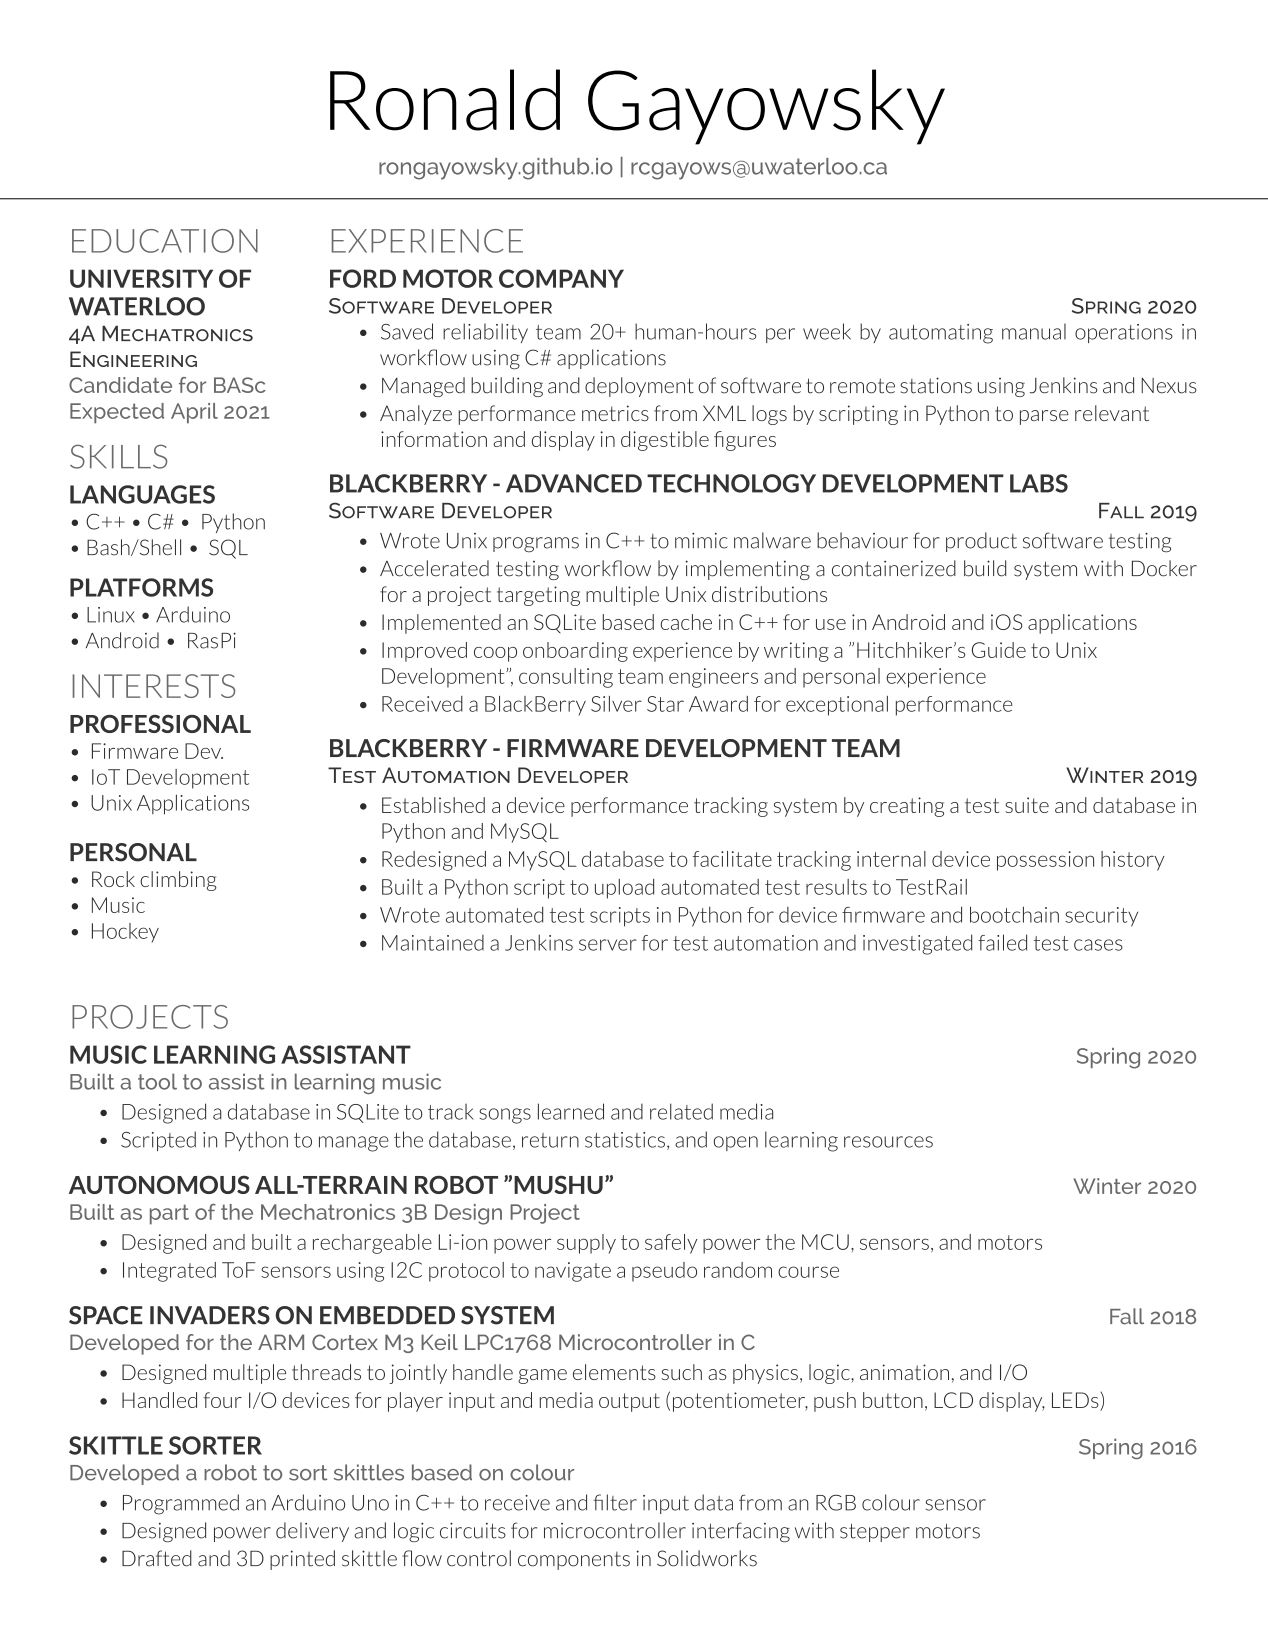
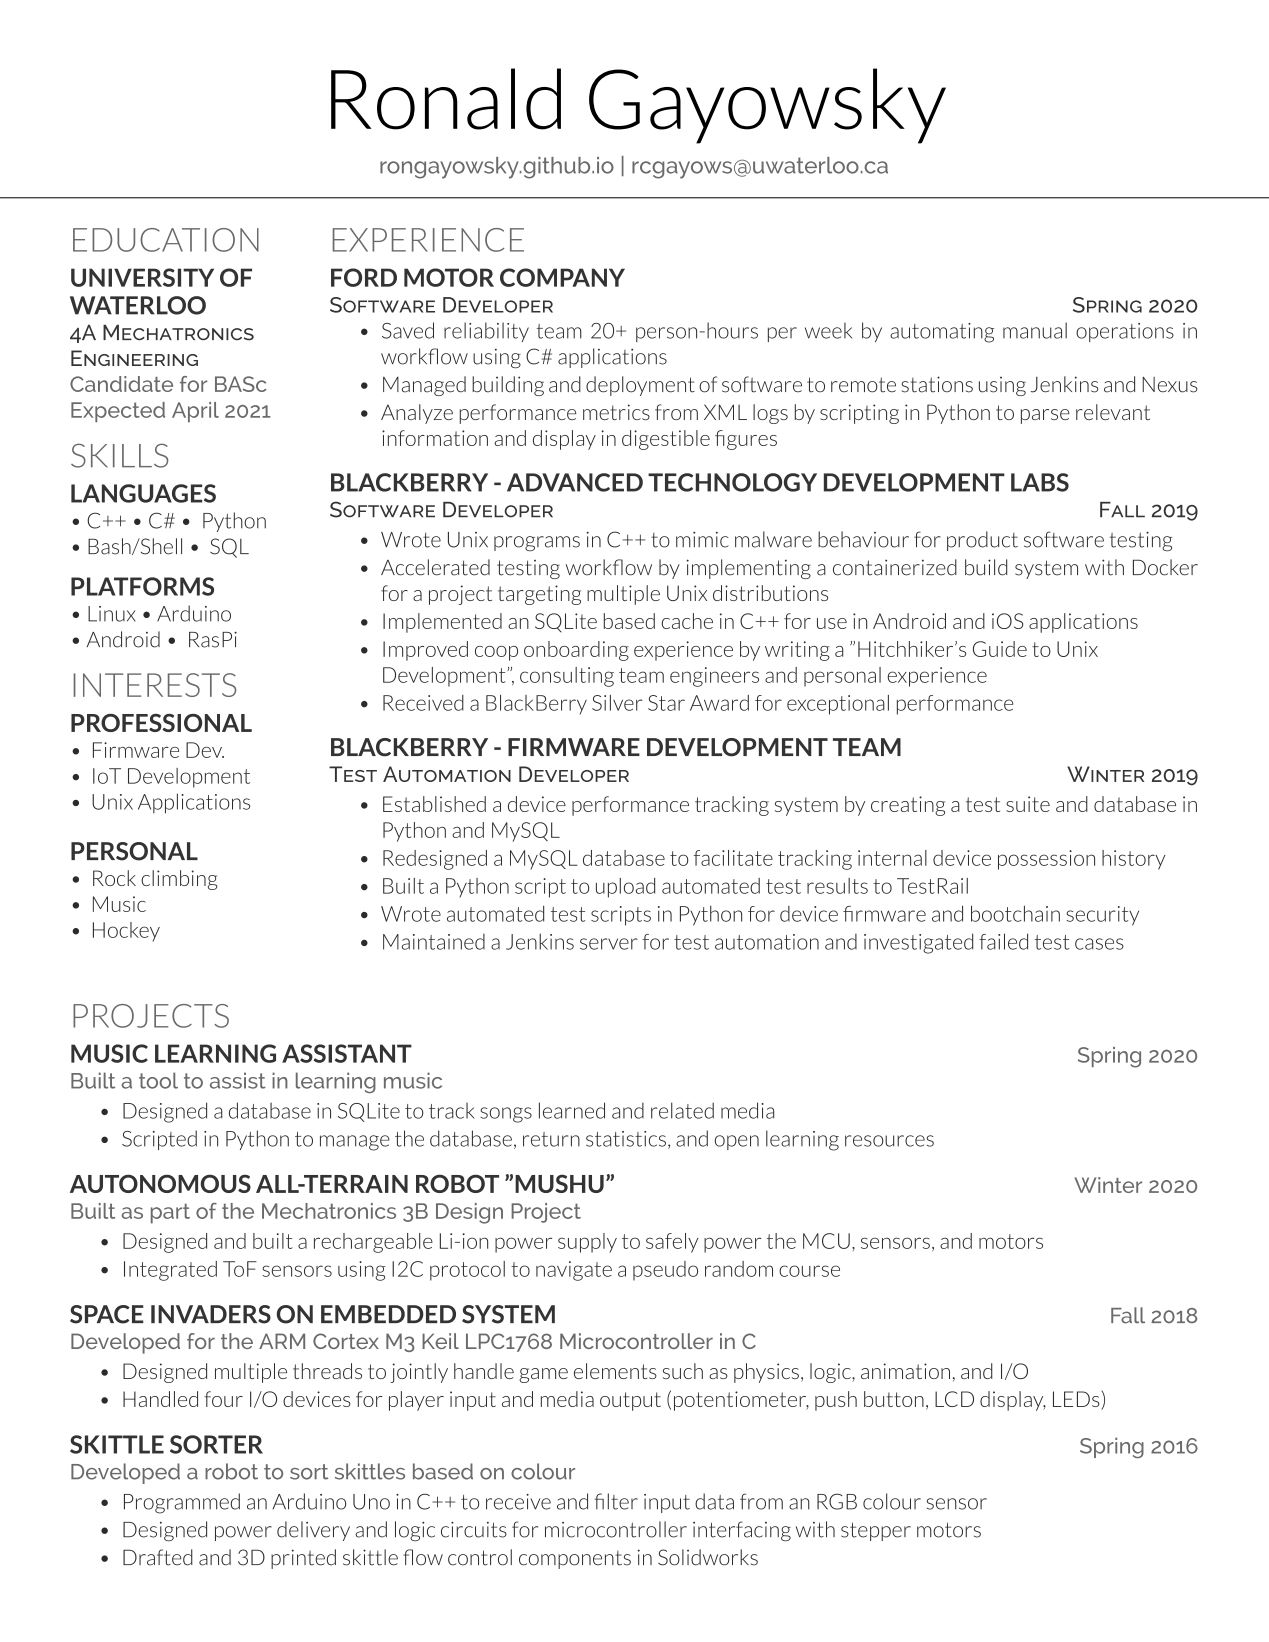
change "human-hours" to "person-hours"
What are you, a Lizard Person? You're a human, everyone you work
with is human. You and your coworkers are peoples, persons,
unique individuals.

Changed wording, I'm not sure how I let that go in the original
draft. I love the english language.

diff --git a/index.html b/index.html
@@ -107,7 +107,7 @@
     <h3>Ford Motor Company</h3>
     <h5>Software Developer (Spring 2020)</h5>
     <ul>
-        <li>Saved reliability team 20+ human-hours per week by automating manual operations in workflow using C# applications</li>
+        <li>Saved reliability team 20+ person-hours per week by automating manual operations in workflow using C# applications</li>
         <li>Managed building and deployment of software to remote stations using Jenkins and Nexus</li>
         <li>Analyze performance metrics from XML logs by scripting in Python to parse relevant information and display in digestible figures</li>
         <li>Adapted scope of position to rise above challenges imposed by the pandemic</li>
